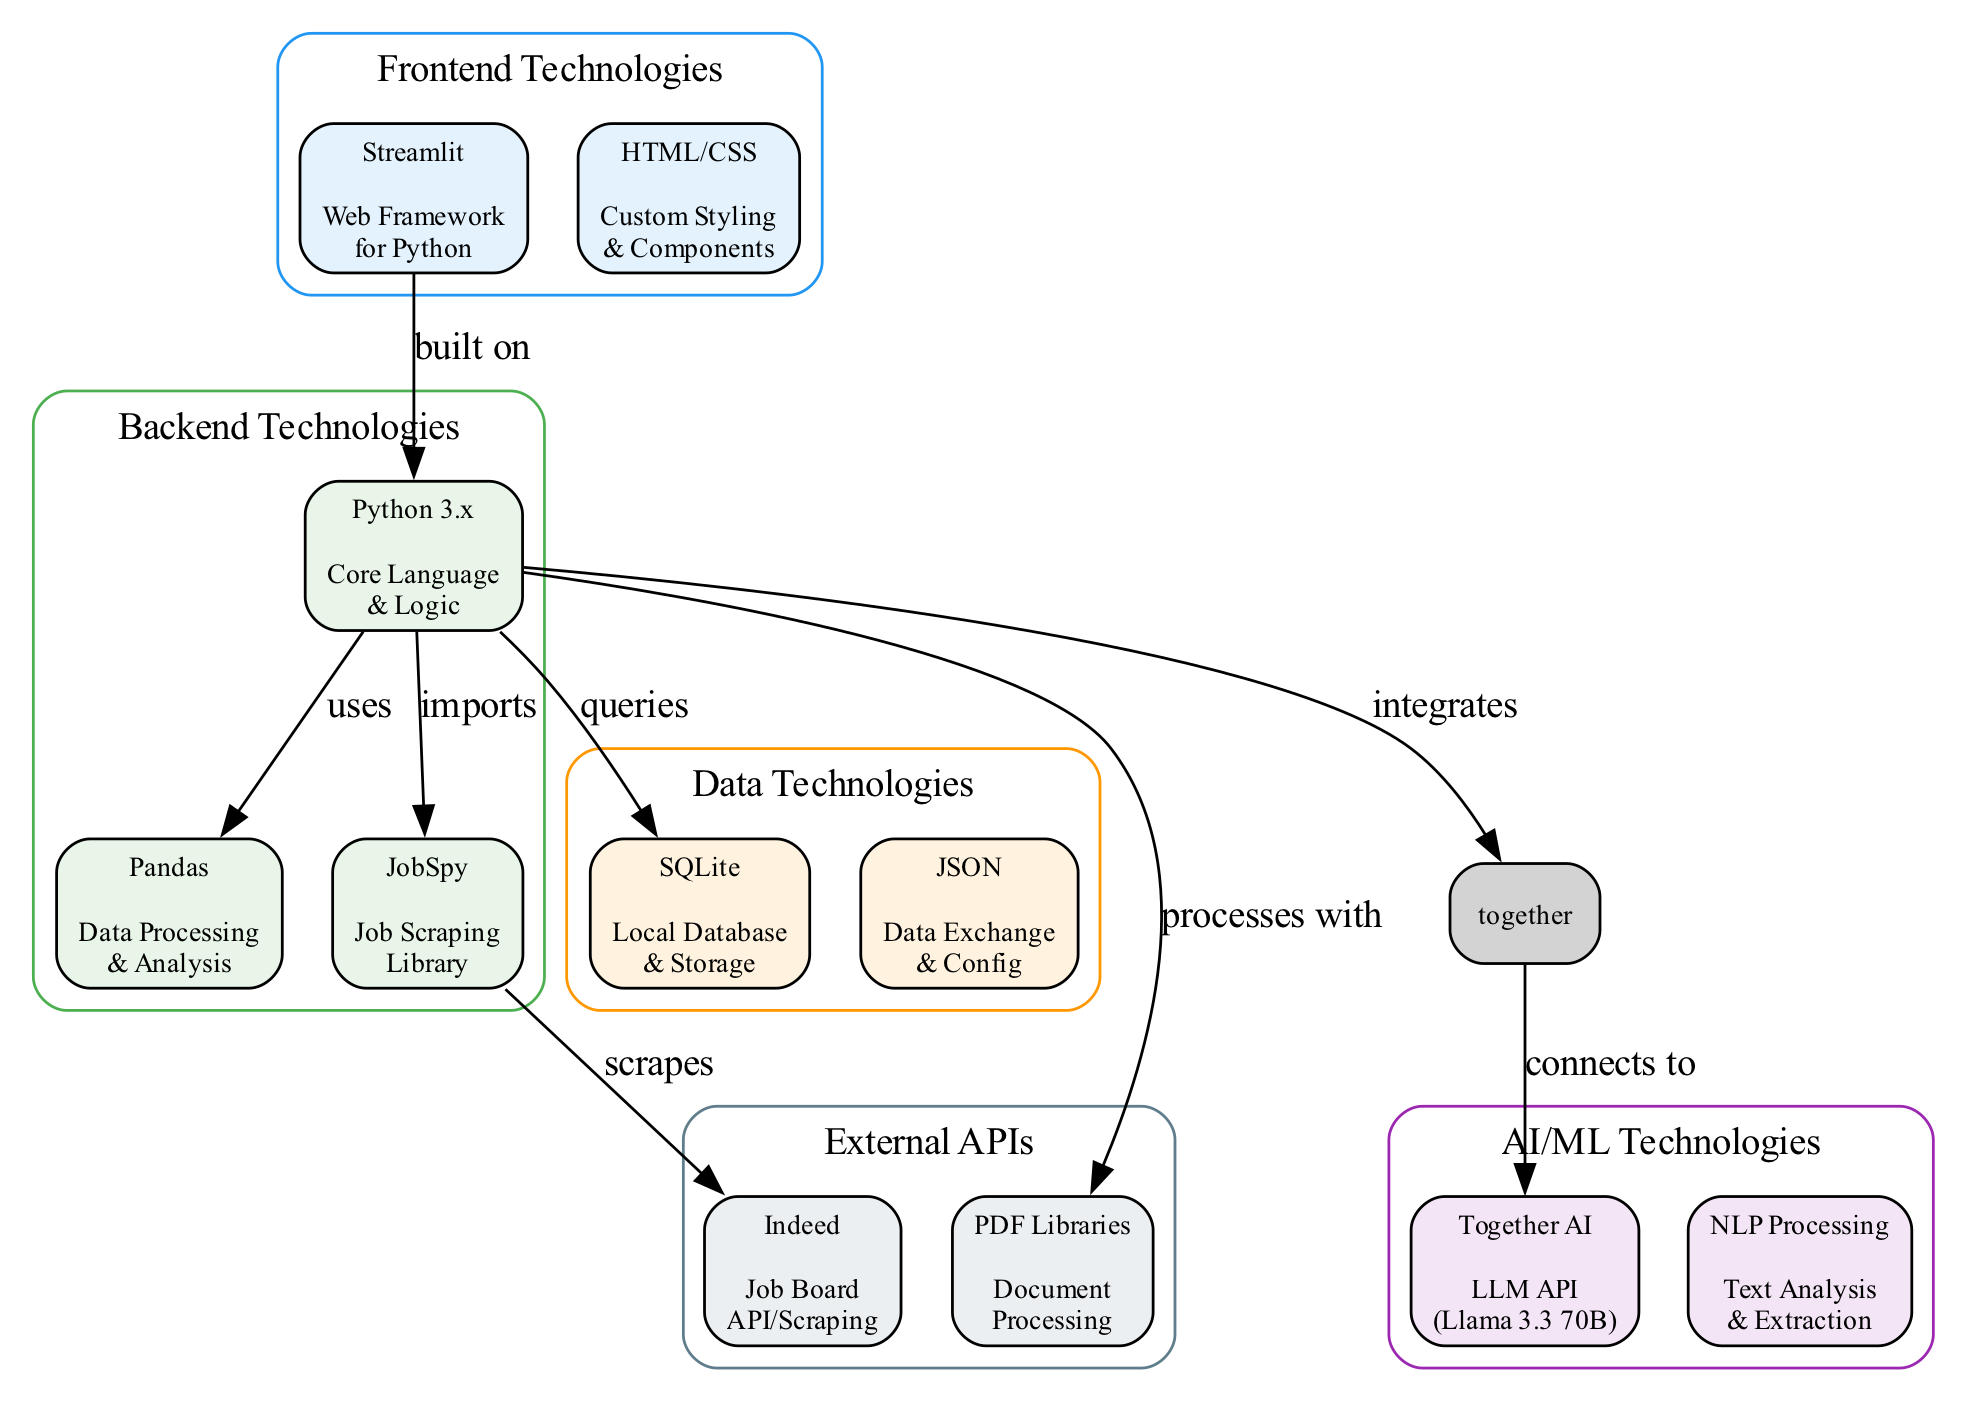
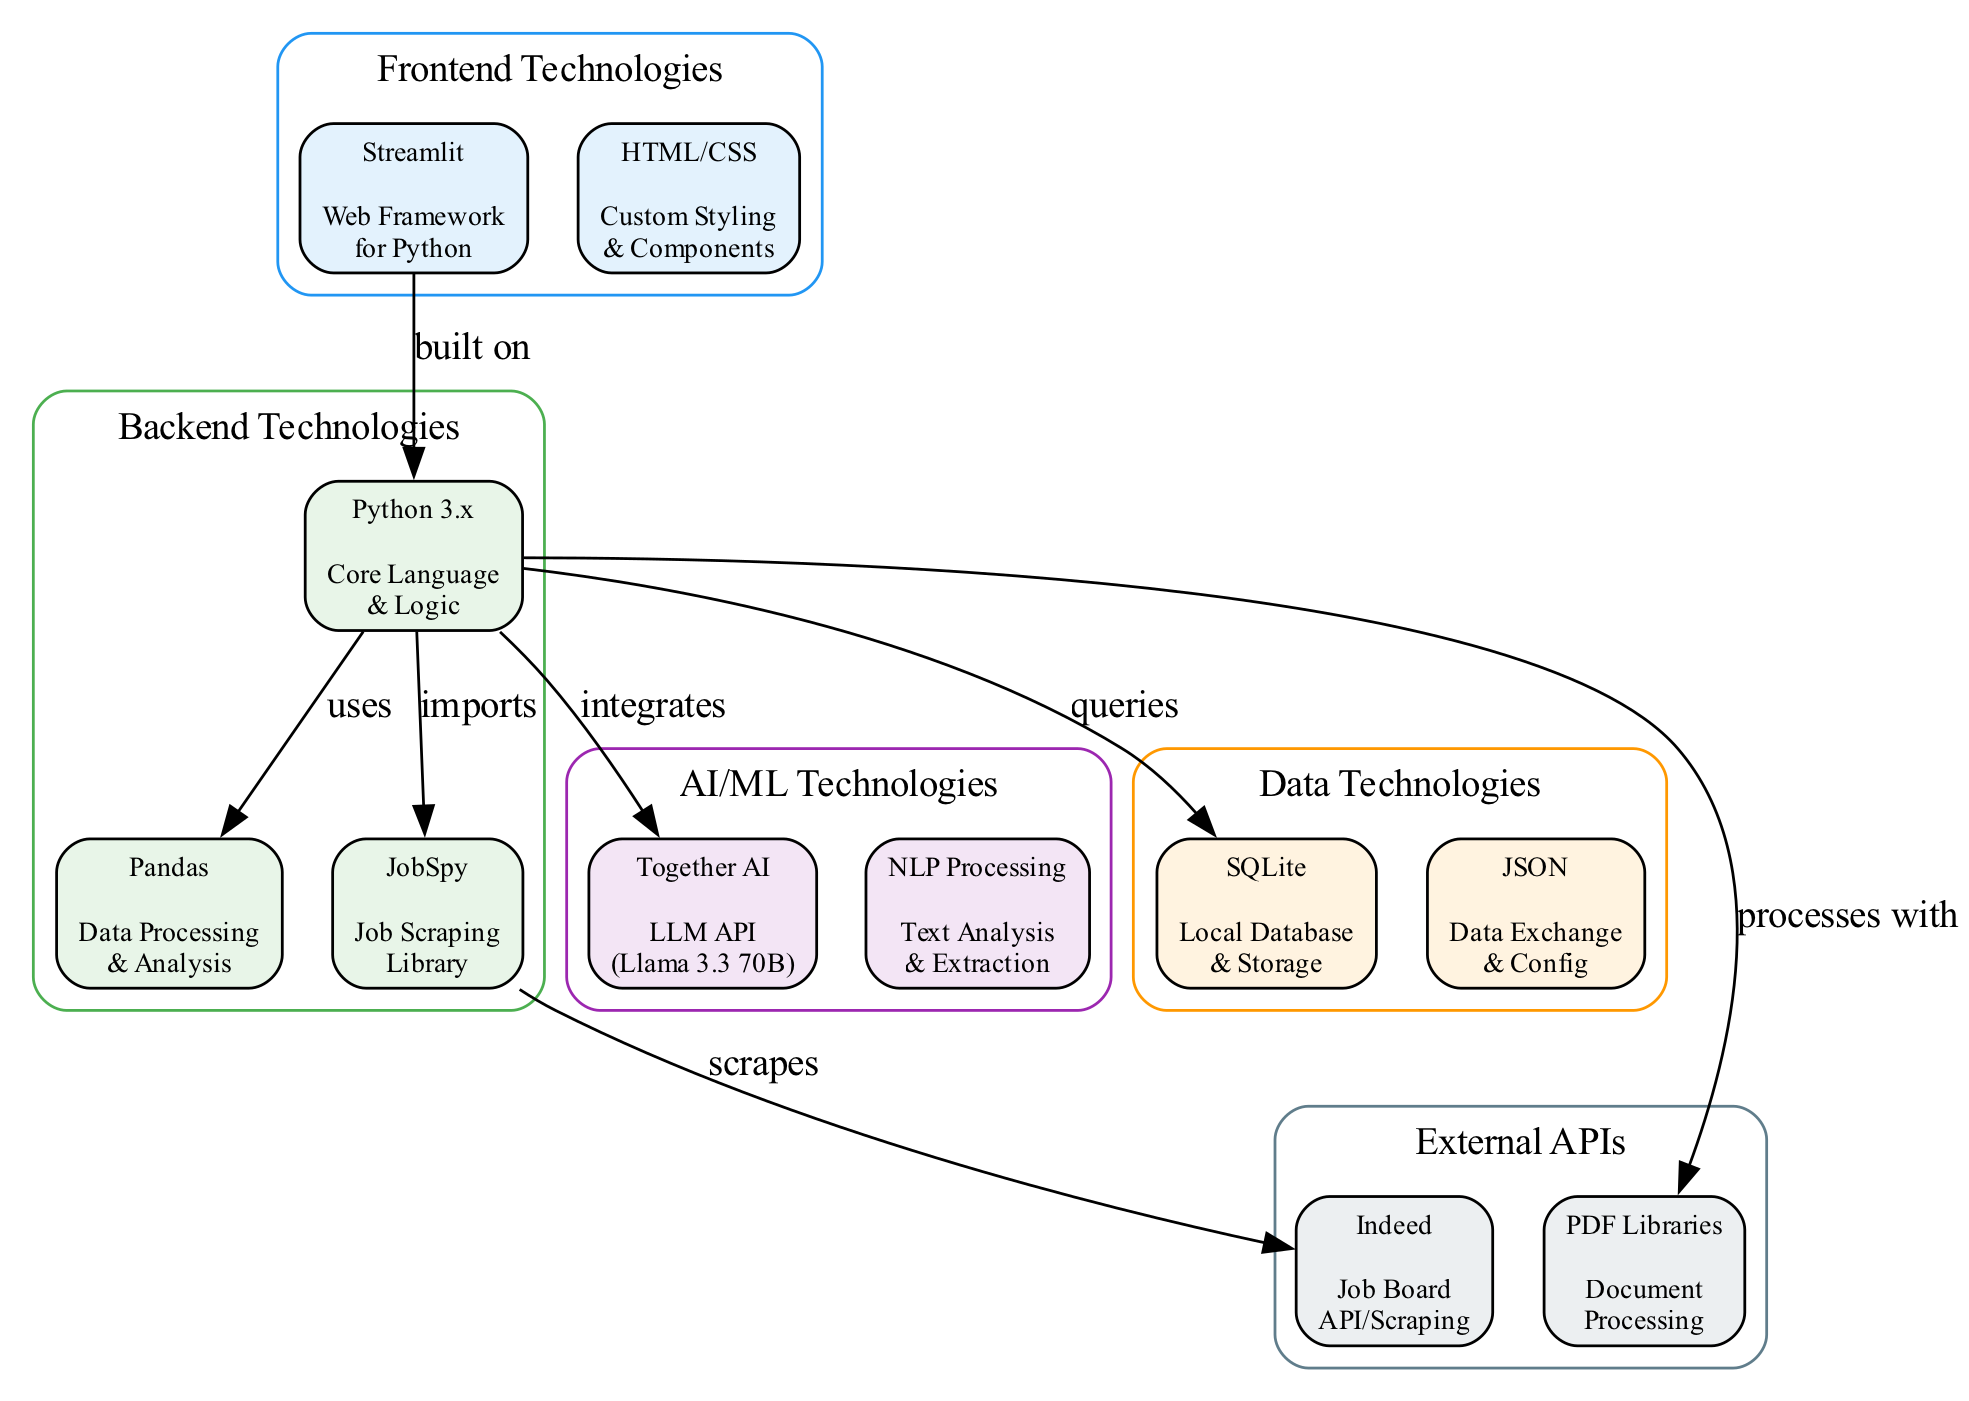
🐳 Update system architecture diagrams and improve node descriptions for clarity

diff --git a/src/skillscope/utils/system_architecture.py b/src/skillscope/utils/system_architecture.py
@@ -394,8 +394,7 @@ def create_technology_stack():
     dot.edge('streamlit', 'python', label='built on')
     dot.edge('python', 'pandas', label='uses')
     dot.edge('python', 'jobspy', label='imports')
-    dot.edge('python', 'together', label='integrates')
-    dot.edge('together', 'together_ai', label='connects to')
+    dot.edge('python', 'together_ai', label='integrates')
     dot.edge('python', 'sqlite', label='queries')
     dot.edge('jobspy', 'indeed_api', label='scrapes')
     dot.edge('python', 'pdf_lib', label='processes with')
@@ -587,7 +586,7 @@ def create_file_based_architecture():
         c.attr(label='⚙ Job Processing, Matching & Evaluation', style='rounded', color=JOB_PROCESSING_COLOR, fontcolor=JOB_PROCESSING_COLOR)
         c.node('indeed_scraper_py', 'indeed_scraper.py\n\n• Scrapes Job Data from Indeed.com (JobSpy)\n• Stores Job Postings via SQLAlchemy ORM\n• Handles URL Uniqueness & Data Cleaning\n• Auto-cleanup of Stale Jobs', 
                fillcolor=JOB_PROCESSING_COLOR + '30', color=JOB_PROCESSING_COLOR)
-        c.node('profile_job_matcher_py', 'profile_job_matcher.py\n\n• Matches User Profiles to Jobs (DB + Live)\n• Uses SQLAlchemy ORM for All DB Operations\n• Calculates Relevance Scores & Rankings\n• Manages User Profile CRUD Operations',
+        c.node('profile_job_matcher_py', 'profile_job_matcher.py\n\n• Matches User Profiles to Jobs (DB + Live)\n• Uses SQLAlchemy for ORM-based database interactions\n• Calculates Relevance Scores & Rankings\n• Manages User Profile CRUD Operations',
                fillcolor=JOB_PROCESSING_COLOR + '30', color=JOB_PROCESSING_COLOR)
         c.node('cv_job_evaluator_py', 'cv_job_evaluator.py\n\n• AI-Powered CV vs Job Analysis (Together AI)\n• Detailed Match Feedback & Gap Analysis\n• Stores Evaluation Results via SQLAlchemy\n• Generates Improvement Recommendations',
                fillcolor=JOB_PROCESSING_COLOR + '30', color=JOB_PROCESSING_COLOR)
@@ -762,9 +761,8 @@ def create_module_dependency_diagram():
     external_libs = {
         'streamlit': {'color': '#FF4B4B', 'desc': 'Web Framework'},
         'sqlalchemy': {'color': '#75A5C0', 'desc': 'ORM & SQL Toolkit'},
-        'together': {'color': '#F06A30', 'desc': 'LLM Integration (TogetherAI)'}, # Specific for TogetherAI
+        'together': {'color': '#F06A30', 'desc': 'LLM Integration & AI Agent Framework (TogetherAI)'}, # Combined TogetherAI services
         'jobspy': {'color': '#D4A017', 'desc': 'Job Scraping Library'},
-        'together': {'color': '#4C8BF5', 'desc': 'AI Agent Framework'},
         'PyPDF2': {'color': '#A0522D', 'desc': 'PDF Processing'},
         'python-docx': {'color': '#2A5699', 'desc': 'DOCX Processing'}, # or 'docx'
         'requests': {'color': '#008080', 'desc': 'HTTP Requests'},
@@ -960,33 +958,33 @@ def create_comprehensive_system_overview():
                fillcolor='#FFEBEE') # Lidt anden farve for admin UI
         
         # CV Processing (stadig en del af applikationslogikken)
-        c.node('cv_extraction', 'cv_extraction.py\n\n• CV parsing via Together AI LLM\n• Skills & experience extraction\n• Profile data structuring', 
+        c.node('cv_extraction', 'CV Extraction (cv_extraction.py)\n\n• CV parsing via Together AI LLM\n• Skills & experience extraction\n• Profile data structuring', 
                fillcolor='#E8F5E8')
     
     # Processing engines cluster (actual files)
     with dot.subgraph(name='cluster_processing') as c:
         c.attr(label='⚙ CORE PROCESSING ENGINES', style='rounded', color='#FF9800')
         
-        c.node('indeed_scraper', 'indeed_scraper.py\n\n• Job scraping via JobSpy library\n• Indeed.com data collection\n• Job data cleaning & storage', 
+        c.node('indeed_scraper', 'Job Scraping (indeed_scraper.py)\n\n• Indeed API integration\n• Job data collection', 
                fillcolor='#FFF3E0')
         
-        c.node('job_matcher', 'profile_job_matcher.py\n\n• Profile-to-job matching logic\n• Relevance scoring algorithms\n• SQLAlchemy ORM operations', 
+        c.node('job_matcher', 'Profile Job Matching (profile_job_matcher.py)\n\n• Profile-to-job matching logic\n• Relevance scoring algorithms\n• SQLAlchemy ORM operations', 
                fillcolor='#FFF3E0')
         
-        c.node('cv_evaluator', 'cv_job_evaluator.py\n\n• AI-powered CV vs job analysis\n• Gap analysis & recommendations\n• Together AI LLM integration', 
+        c.node('cv_evaluator', 'CV-Job Evaluation (cv_job_evaluator.py)\n\n• AI-powered CV vs job analysis\n• Gap analysis & recommendations\n• Together AI LLM integration', 
                fillcolor='#F3E5F5')
         
-        c.node('data_enricher', 'data_enrichment.py\n\n• TogetherAI framework integration\n• Job data enhancement\n• Company info enrichment', 
+        c.node('data_enricher', 'AI Data Enrichment (data_enrichment.py)\n\n• TogetherAI framework integration\n• Job data enhancement\n• Company info enrichment', 
                fillcolor='#F3E5F5')
     
     # Data layer cluster (actual files)
     with dot.subgraph(name='cluster_data') as c:
         c.attr(label='💾 DATA LAYER', style='rounded', color='#7B1FA2')
         
-        c.node('database_models', 'database_models.py\n\n• SQLAlchemy ORM definitions\n• JobPosting, UserProfile models\n• Database engine & session management', 
+        c.node('database_models', 'Data Models (database_models.py)\n\n• SQLAlchemy ORM definitions\n• JobPosting, UserProfile models\n• Database engine & session management', 
                fillcolor='#F3E5F5')
         
-        c.node('sqlite_db', 'indeed_jobs.db\n\n📊 SQLite Database\n• Job postings storage\n• User profiles & evaluations\n• Application data persistence', 
+        c.node('sqlite_db', 'SQLite Database (indeed_jobs.db)\n\n📊 Job postings, user profiles & evaluations\n• Application data persistence', 
                fillcolor='#EFEBE9', shape='cylinder')
         
         c.node('ontology_files', 'Ontology & Reference Files\n\n• skill_ontology.csv\n• roles_industries_ontology.csv\n• advanced_user_profile_log.csv', 
@@ -1069,6 +1067,7 @@ def create_dual_interface_diagram():
     USER_APP_COLOR = '#1565C0'      # Blue for main app
     ADMIN_APP_COLOR = '#C62828'     # Red for admin app  
     SHARED_COLOR = '#2E7D32'        # Green for shared components
+    USER_MODULES_COLOR = '#0277BD'  # Another blue for user-focused modules
     DATABASE_COLOR = '#7B1FA2'      # Purple for database
     EXTERNAL_COLOR = '#F57C00'      # Orange for external services
     
@@ -1082,23 +1081,27 @@ def create_dual_interface_diagram():
         c.node('admin_app', 'admin_app.py\n\n⚙ Administrative Interface\n• Database Management\n• Job Scraping Control\n• Data Enrichment Monitoring\n• System Health & Maintenance', 
                fillcolor='#FFEBEE', color=ADMIN_APP_COLOR, penwidth='2')
     
-    # Shared Core Services
+    # User-Specific Services (non-shared services)
+    with dot.subgraph(name='cluster_user_services') as c:
+        c.attr(label='User-Specific Services', style='rounded', color=USER_MODULES_COLOR)
+        
+        c.node('cv_extraction', 'CV Extraction\n(cv_extraction.py)\n\n• PDF/DOCX parsing\n• AI-powered data extraction', 
+               fillcolor='#E3F2FD', color=USER_MODULES_COLOR)
+        
+        c.node('profile_matcher', 'Profile Matching\n(profile_job_matcher.py)\n\n• User profile management\n• Job-profile matching', 
+               fillcolor='#E3F2FD', color=USER_MODULES_COLOR)
+        
+        c.node('cv_evaluator', 'CV Evaluation\n(cv_job_evaluator.py)\n\n• AI-driven analysis\n• Match scoring', 
+               fillcolor='#E3F2FD', color=USER_MODULES_COLOR)
+    
+    # Shared Core Services - now only includes Job Scraping and Data Enrichment
     with dot.subgraph(name='cluster_core') as c:
         c.attr(label='Shared Core Services', style='rounded', color=SHARED_COLOR)
-        
-        c.node('cv_extraction', 'CV Processing\n(cv_extraction.py)\n\n• PDF/DOCX parsing\n• AI-powered data extraction', 
-               fillcolor='#E8F5E8', color=SHARED_COLOR)
         
         c.node('job_scraper', 'Job Scraping\n(indeed_scraper.py)\n\n• Indeed API integration\n• Job data collection', 
                fillcolor='#E8F5E8', color=SHARED_COLOR)
         
-        c.node('profile_matcher', 'Profile Matching\n(profile_job_matcher.py)\n\n• User profile management\n• Job-profile matching', 
-               fillcolor='#E8F5E8', color=SHARED_COLOR)
-        
         c.node('data_enrichment', 'Data Enrichment\n(data_enrichment.py)\n\n• AI-powered enhancement\n• Company information', 
-               fillcolor='#E8F5E8', color=SHARED_COLOR)
-        
-        c.node('cv_evaluator', 'CV Evaluation\n(cv_job_evaluator.py)\n\n• AI-driven analysis\n• Match scoring', 
                fillcolor='#E8F5E8', color=SHARED_COLOR)
     
     # Database Layer
@@ -1119,11 +1122,17 @@ def create_dual_interface_diagram():
     dot.edge('main_app', 'cv_extraction', label='CV upload', color=USER_APP_COLOR)
     dot.edge('main_app', 'profile_matcher', label='profile search', color=USER_APP_COLOR)
     dot.edge('main_app', 'cv_evaluator', label='evaluation request', color=USER_APP_COLOR)
-    
-    # Admin App connections
+    # Add result arrow from CV Extraction back to main_app
+    dot.edge('cv_extraction', 'main_app', label='parsed data', color=USER_APP_COLOR)
+
+    # Admin App connections - increased privileges for shared core services
     dot.edge('admin_app', 'job_scraper', label='scraping control', color=ADMIN_APP_COLOR, style='bold')
     dot.edge('admin_app', 'data_enrichment', label='enrichment monitoring', color=ADMIN_APP_COLOR, style='bold')
     dot.edge('admin_app', 'database', label='direct DB access', color=ADMIN_APP_COLOR, style='bold')
+    
+    # Profile matcher connections to shared services (now more explicitly shown)
+    dot.edge('profile_matcher', 'job_scraper', label='triggers scraping', color=USER_MODULES_COLOR)
+    dot.edge('profile_matcher', 'data_enrichment', label='uses enriched data', color=USER_MODULES_COLOR)
     
     # Shared service connections
     dot.edge('job_scraper', 'indeed_api', label='API calls', color=EXTERNAL_COLOR, style='dashed')
